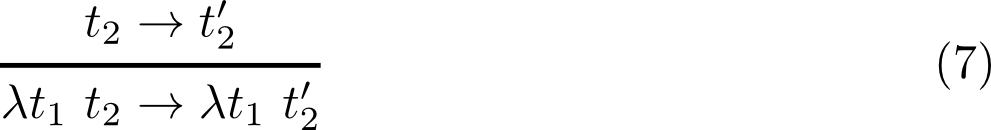
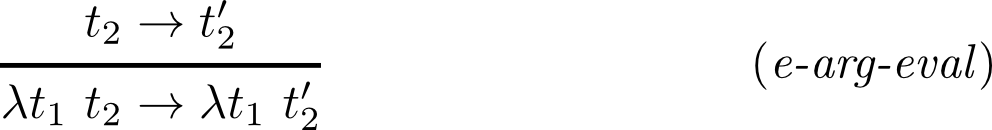
diagrams updated in first cs opsem post

diff --git a/_diagrams/coffee-script-fix.tex b/_diagrams/coffee-script-fix.tex
@@ -31,6 +31,7 @@
 \end{grammar}
 
 \section{Boolean Evaluation Rules}
+
 \begin{equation}
 \lit*{if} \ \lit*{true} \ \lit*{then} \ t_{2} \ \lit*{else} \ t_{3} \to t_{2} \ruletag{e-true}
 \end{equation}
@@ -135,28 +136,27 @@
 
 \section{CS Ambigious Derivations}
 
-\begin{equation}
+\begin{equation*}
 \trfrac[\;\small{(\text{??})}]{
   \trfrac[\rulelabel{e-inv}]{}{\lambda \lit*{true} \lit*{()} \right \rightarrow \lit*{true}}
 }{
   \lambda \lit*{true} \lit*{()} \ \lambda \lit*{false} \rightarrow (??)
 }
-\end{equation}
+\end{equation*}
 
-\begin{equation}
+\begin{equation*}
 \trfrac[\rulelabel{e-app}]{
   \trfrac[\rulelabel{e-inv}]{}{\lambda \lambda \lit*{true} \lit*{()} \right \rightarrow \lambda \lit*{true}}
 }{
   \lambda \lambda \lit*{true} \lit*{()} \ \lambda \lit*{false} \rightarrow \lit*{true}
 }
-\end{equation}
+\end{equation*}
 
-\begin{equation}
+\begin{equation*}
 \trfrac[\rulelabel{e-app}]{}{
   \lambda \lambda \lit*{true} \ \lambda \lit*{false} \rightarrow \lambda \lit*{true}
 }
-\end{equation}
-
+\end{equation*}
 
 \newpage
 

diff --git a/_posts/2012-10-09-math-envy-and-coffeescripts-foibles.md b/_posts/2012-10-09-math-envy-and-coffeescripts-foibles.md
@@ -15,9 +15,9 @@ meta:
 
 At Strange Loop 2011 while participating in a [language panel (5:06)](http://www.infoq.com/presentations/Language-Panel) Jeremy Ashkenas was asked, "What is the worst idea that was ever introduced into programming languages that continues to afflict us today?" He responded, "... mathematics envy". I can't completely disagree with Mr. Ashkenas. Math appears to get in the way on occasion [!!]. Even so it struck me as an odd response given that much of computing is built on the work of great mathematicians [!!]. For an example look no further than the [inner workings](kwingolog.org/archives/2011/08/02/a-closer-look-at-crankshaft-v8s-optimizing-compiler) of V8's optimizing compiler that runs a lot of Jeremy's code.
 
-Fast forward a year and issues with CoffeeScript's flexible syntax start popping up in [blog](http://surana.wordpress.com/2011/02/08/coffeescript-oddities/) [posts](http://ceronman.com/2012/09/17/coffeescript-less-typing-bad-readability/). Interactions between whitespace, operators, comprehensions, and lambda declarations all appear to be a source of semantic ambiguity. To be fair it seems that they are rarely the cause of serious problems, but it left me wondering if they could have been avoided during the creation of the language. Could the timely application of mathematics have prevented these problems early in CoffeeScript's genesis?
+Fast forward a year and issues with CoffeeScript's flexible syntax start popping up in [blog](http://surana.wordpress.com/2011/02/08/coffeescript-oddities/) [posts](http://ceronman.com/2012/09/17/coffeescript-less-typing-bad-readability/). Interactions between whitespace, operators, comprehensions, and lambda declarations appear to be a source of runtime confusion. To be fair it seems that they are rarely the cause of serious problems, but it left me wondering if they could have been avoided during the creation of the language. That is, could the timely application of mathematics have prevented these problems early in CoffeeScript's genesis?
 
-What follows is the first of two posts aimed at answering that question. This post provides an introduction to operational semantics, a description of one semantic issue in CoffeeScript, and a definition of the operational semantics for a CoffeeScript subset capable of reproducing said issue. The second post will introduce type derivations, define them for the same CoffeeScript subset, and attempt to formalize semantic ambiguity generally. Most of the background needed to understand the math is covered, but the post generally follows my thought process.
+What follows is the first of two posts aimed at answering that question. This post provides an introduction to operational semantics, a description of one semantic issue in CoffeeScript, and a definition of the operational semantics for a CoffeeScript subset capable of reproducing said issue. The second post will introduce type derivations, define them for the same CoffeeScript subset, and attempt to formalize semantic ambiguity more generally. The background needed to understand the math is covered, but the post generally follows my thought process.
 
 ## CoffeeScript Confusion
 
@@ -73,19 +73,19 @@ if true then false else true
 if false then false else (if true then false else true)
 ```
 
-`v`'s distinction means that any term like the second and third in the example has to eventually evaluate to either `true` or `false`. Any other result means that something has "gone wrong". It also means that `true` or `false` themselves cannot evaluate further. "Going wrong" will be covered later.
+`v`'s distinction means that any term like the second and third in the example has to eventually evaluate to either `true` or `false`. Any other result means that something is "stuck". It also means that `true` or `false` themselves cannot evaluate further. What it means for a term to get "stuck" will be covered later.
 
 Also, notice that that the only other construct in the grammar `if t then t else t` has sub terms represented with the meta variable `t`. This captures the ability to use `true`, `false`, or another `if t then t else t` in place of each sub term `t` as in examples two and three.
 
-With the building blocks of the example language in place the next step is to establish a set of rules that will define the way terms are evaluated. That is, what steps should be used to reduce any term to `true` or `false`, and in what order. In spite of the fact that this language is extremely simple there are some subtle details about how terms can evaluate that need to be captured.
+With the building blocks of the example language in place the next step is to establish a set of rules that will define the way terms are evaluated. That is, what steps should be used to reduce any term to `true` or `false`, and in what order. Superficially this language seems extremely simple, but there are some subtle details about how term evaluation that need to be captured.
 
 <div class="center">
   <img src="/assets/images/diagrams/bool-inference-rules.png"></img>
 </div>
 
-These equations are collectively referred to as the _evaluation relation_ and individually as _inference rules_. Each of them plays an important role in the _evaluation strategy_ [!!] of the example language that instructs the reader on how to evaluate any term in the language. All of them are tagged with a name preceded by an "_e-_" for evaluation. The tags will be helpful later when differentiating between inference rules and type rules for CoffeeScript.
+These equations are collectively referred to as the _evaluation relation_ and individually as _inference rules_. Each of them plays an important role in the _evaluation strategy_ [!!] of the example language which instructs the reader in how to evaluate any term in the language. All of them are tagged with a name preceded by an "_e-_" for evaluation. The tags will be helpful later when referring to the rules and also for keeping them conceptually distinct from the type rules.
 
-Equations 1 and 2 (_e-true_, _e-false_) are fairly simple. They represent the expected evaluation results for the different guard values in an `if t then t else t` term. With `true` you get the first subterm and with `false` you get the second subterm. Also, notice that there are no rules for either `true` or `false` by themselves. This further reinforces that `true` and `false` are values and that there's no way to evaluate them furter. Equation 3, _e-if_ is more interesting in its construction and how it captures an important subtlety of the evaluation strategy.
+_e-true_ and _e-false_ are fairly simple. They represent the expected evaluation results for the different guard values in an `if t then t else t` term. With `true` you get the first subterm and with `false` you get the second subterm. Also, notice that there are no rules for either `true` or `false` by themselves. This further reinforces that `true` and `false` are values and that there's no way to evaluate them further. Equation 3, _e-if_ is more interesting in its construction and how it captures an important subtlety of the evaluation strategy.
 
 <div class="center">
   <img src="/assets/images/diagrams/bool-inference-rules-guard.png"></img>
@@ -148,19 +148,12 @@ Some translated examples should help to clarify:
 
 
 <div class="center">
-  <img src="/assets/images/diagrams/cs-grammar-lambda-invocation.png"></img>
+  <img src="/assets/images/diagrams/cs-grammar-examples.png"></img>
 </div>
 
-<div class="center">
-  <img src="/assets/images/diagrams/cs-grammar-lambda-application.png"></img>
-</div>
-<div class="center">
-  <img src="/assets/images/diagrams/cs-grammar-lambda-complex.png"></img>
-</div>
+The most important part to note is that lambda terms capture the subterm be it `true`, `false` or another lambda.
 
-The most important part to note that may not have been clear from the grammar is that lambda terms capture the subterm be it `true`, `false` or another lambda (See the last three equations above).
-
-It's reasonable to ask whether there's value in providing a grammar that, in translation, looks a lot like it's own language. First, it maps the two different lambda forms to one form in the grammar, which makes reasoning about evaluation and types easier. Second, differentiating values (`true`, `false`, and `-> t`) from other terms by calling them values is important for knowing when evaluation has finished.
+Looking at the examples it's reasonable to ask whether there's value in providing a grammar that looks a lot like it's own language. First, it maps the two different lambda forms to one form in the grammar, which makes reasoning about evaluation and types easier. Second, differentiating values (`true`, `false`, and `-> t`) from other terms by calling them values is important for knowing when evaluation has finished.
 
 ## Inference Rules
 
@@ -172,15 +165,17 @@ With the grammar in place the next step is to define both the inference rules an
 
 The only impact of the evaluation strategy (call-by-value l-to-r) is that arguments to lambda terms must be fully evaluated before application can take place. For example `(-> true) (-> false)()` would first evaluate to `(-> true) false` as a result of the `()` operator.
 
-insert equation 8
+<div class="center">
+  <img src="/assets/images/diagrams/cs-inference-rules-application.png"></img>
+</div>
 
-Equation 8, _e-app_ requires that any argument a lambda term is applied to should be fully evaluated. In other words it should be a term in the meta variable set `v`. Once applied the result is the lambda's unaltered subterm.
+The `v` in _e-app_ means that any argument a lambda term is applied to should be fully evaluated. In other words it should be a term in the meta variable set `v`. Once applied the result is the lambda's unaltered subterm.
 
 <div class="center">
   <img src="/assets/images/diagrams/cs-inference-rules-application-argument.png"></img>
 </div>
 
-Equation 9, _e-arg-eval_ stipulates in the premise that if the term a lambda will be applied to can take a step of evaluation it should. _e-app_ informs the reader when lambda application can take place and _e-arg-eval_ informs the reader how to get there. Taken together these three rules define how terms in the CoffeeScript subset get evaluated [!!].
+_e-arg-eval_ stipulates in the premise (above the bar) that if the term a lambda will be applied to can take a step of evaluation it should. _e-app_ informs the reader when lambda application can take place and _e-arg-eval_ informs the reader how to get there. Taken together these three rules define how terms in the CoffeeScript subset get evaluated [!!].
 
 ## Derivation Trees
 
@@ -198,7 +193,7 @@ Again, depending on the way the inference rules are defined this example could e
   <img src="/assets/images/diagrams/bool-derivation-tree-example.png"></img>
 </div>
 
-Unfortunately the way this "tree" is constructed isn't obvious. First, taking the second subterm and replacing it with a variable prevents the equations from getting too long. This can be done here because we already know that it's not important to how the term is evaluated (see the introductory section on operational semantics) and it's easier to read when the equations aren't squished.
+Unfortunately the way this "tree" is constructed isn't obvious. First, taking the second subterm and replacing it with a variable prevents the equations from getting too long. We already know that the second sub term isn't important in the final evaluation (see the introductory section on operational semantics) and it's easier to read the equations when they aren't squished
 
 <div class="center">
   <img src="/assets/images/diagrams/bool-derivation-tree-example-simplify.png"></img>
@@ -210,7 +205,7 @@ From among the inference rules _e-true_, _e-false_, and _e-if_ one will apply to
   <img src="/assets/images/diagrams/bool-derivation-tree-first-rule.png"></img>
 </div>
 
-It's easy to see that this looks just like the "raw" form of the _e-true_ rule. The only difference is the replacement of the last two subterms with `false` on the left side of the arrow and the resulting subterm with `false` on the right side of the arrow. It might look a little confusing with the bar resting on top of the _e-true_ rule, but it signifies that the applied rule has no premise/precondition. Next, since  _e-if_ forced the application of _e-true_, it makes sense that it figures in to the derivation tree. Importantly _e-if_ has a precondition, one which the application of _e-true_ satisfies.
+It's easy to see that this looks just like the "raw" form of the _e-true_ rule. The only difference is the replacement of the last two subterms with `false` on the left side of the arrow and the resulting subterm with `false` on the right side of the arrow. It might look a little confusing with the bar resting on top of the _e-true_ rule, but that signifies the applied rule has no premise/precondition. Next, since  _e-if_ forced the application of _e-true_, it makes sense that it figures in to the derivation tree. Importantly _e-if_ has a precondition, one which the application of _e-true_ satisfies.
 
 <div class="center">
   <img src="/assets/images/diagrams/bool-inference-rules-guard.png"></img>
@@ -228,23 +223,25 @@ Here, it's been replaced by `if true then false else false -> false` from the ap
   <img src="/assets/images/diagrams/bool-derivation-tree-example.png"></img>
 </div>
 
-The final evaluation result is `false`. At this point it may seem odd to call it a derivation "tree", but more complex languages may have multiple subterms in the premise that require evaluation resulting in a tree like structure. Finally we have enough in place to apply the operational semantics defined for the CoffeeScript subset to our problem.
+The final evaluation result is `false`. At this point it may seem odd to call it a derivation "tree", but a more complex grammar could have multiple terms in the premise that require evaluation resulting in a tree like structure.
 
 ## Evaluating a Solution
 
-Now to apply the inference rules to an example of the issue at hand.
+Finally we know enough to apply the operational semantics to our problem. First the least complex term that prevents evaluation.
 
 ```coffeescript
 (-> true)() -> false
 ```
 
-Translating this example into the grammar representation yields a form that we can apply the inference rules to.
+Translating this example into the grammar representation yields a form that will work with the inference rules.
 
-! include grammarfied version
+<div class="center">
+  <img src="/assets/images/diagrams/cs-derivation-trees-stuck.png"></img>
+</div>
 
-_e-inv_ is applied because `-> false` can't evaluate any further (it's a value in `v`), but then what? The only rule that has an evaluation result in it's premise is _e-arg-eval_, and that one only allows for the second term to be valuated not the consumption of an argument. Neither _e-inv_ or _e-app_ are only good for terms with lambdas as the first subterm. We're stuck [!!].
+_e-inv_ is applied because `-> false` can't evaluate any further (it's a value in `v`), but then what? The only rule that has evaluation in it's premise is _e-arg-eval_ and that only allows for the second term `-> false` to be evaluated. It does **not** allow for the consumption of an argument. _e-inv_ and _e-app_ are only good for terms with lambdas as the first subterm which is `true` after the initial application of _e-inv_. It's "stuck" [!!].
 
-Here someone will say, "We already knew that because there's a type error when you evaluate the JavaScript!" and that''s true. Consider the slightly more complex example.
+Here someone will say, "We already knew that because there's a type error when you evaluate the JavaScript!". Consider a slightly more complex example.
 
 ```coffeescript
 (-> (-> true))() -> false
@@ -252,27 +249,41 @@ Here someone will say, "We already knew that because there's a type error when y
 
 And the derivation tree to match.
 
-! include working derivation tree
+<div class="center">
+  <img src="/assets/images/diagrams/cs-derivation-trees-not-stuck.png"></img>
+</div>
 
-The value returned by the first lambda can be applied to an argument so the second inference rule is _e-app_ and the result of evaluation is `true`. Viewing the accompanying term with an additional space will provide contrast.
+The value returned by the first lambda can be applied to an argument with _e-app_ so the result of evaluation is `true`. Viewing the accompanying term with an additional space will provide contrast.
 
 ```coffeescript
 (-> (-> true)) () -> false
 ```
 
-With a much simpler derivation tree.
+<div class="center">
+  <img src="/assets/images/diagrams/cs-derivation-trees-not-stuck-with-space.png"></img>
+</div>
 
-! include working app tree
+Clearly the two terms are syntactically similar but each has a very different meaning. This semantic differentiation makes it possible to start thinking about a concrete notion of semantic ambiguity in a programming language. Informally, if two terms are _very similar_ syntactically but have different derivation trees they are semantically ambigous.
 
-This shows clearly that while the two terms are syntactically very similar each has a very different meaning. From this its possible to begin a thinking about what semantic ambiguity looks like in a programming language. Informally, if two terms are _very similar_ syntactically but have different derivation trees they are semantically ambigous.
+There are two problems with this definition if the goal is to come up with something useful for actual language implementors. First, "very similar" is nebulous. Luckily computer science is litered with string "distance" algorithms. Second, automatically generating derivation trees for terms is likely to be difficult.
 
-There are two problems with this definition if the goal is to come up with something useful for actual language implementors. First, "very similar" is nebulous. Luckily computer science is litered with string "distance" algorithms. Second, building a tool to generate derivation trees for terms is difficult. It might be possible to just compare evaluation _results_ but there are two issues with that approach. It requires an interpreter and it's possible there are languages that have the same results from similar terms but still have different derivation trees. In that case side effects might result in ambiguity.
+It might be possible to just compare evaluation results instead of the derivation trees but there are problems with that approach. In the example boolean language it's extremely easy to define two terms that evaluate to an identical result but have different derivation trees.
+
+```haskell
+-- example one
+if (if true then true else true) then false else (if true then false else true)
+
+-- example two
+if (if true then false else true) then false else (if true then false else true)
+```
+
+The fact that the evaluation path is very different gets lost in a forest of `true`'s and `false`'s. More concretely the string distance between the two terms is at most 5 characters out of 78, but the first example has a derivation tree with two rules (_e-true_, _e-if_) against the second examples stack of three (_e-true_, _e-if_, _e-true_). Again, this is in spite of the fact that the evaluation _result_ is `false` in both cases. You simply can't tell without a lot of effort how different the evaluation is and in a language with side effects the difference could be critical.
 
 ## Next Time
 
-In the next post I'll take a look at how type information could replace the derivation trees as the semantic differentiator. Type information is often readily available even in languages that don't have type annotations like our CoffeeScript subset. Hopefully, if the differentiation of terms is easy enough a tool can be built to automate the process of ferreting out confusing term pairings.
+In the next post I'll take a look at how type information could replace the derivation trees as the semantic differentiator. Type information is often readily available even in languages like CoffeeScript that don't have type annotations. If finding a difference between two terms is simple enough maybe a tool can be built to automate the process of ferreting out confusing term pairings.
 
-## footnotes
+### footnotes
 
 !! See the confusion over Monads/Functors due in part to their relationship with mathematics
 
@@ -280,7 +291,7 @@ In the next post I'll take a look at how type information could replace the deri
 
 !! denotational semantics, axiomatic semantics
 
-!!  Out of respect to Benjamin Pierce this example language is borrowed almost verbatim but I've added in my own explanation of it in what I think is "plain" language. It cannot be over emphasized how much this book has contributed to my education over the last 2 years.
+!!  Out of respect to Benjamin Pierce this example language is borrowed almost verbatim but I've added in my own explanation of it. I cannot over emphasized how much this book has contributed to my education over the last 2 years. If you feel I haven't properly attributed the relevant portions of this post please email me at john.m.bender@gmail.com.
 
 !! This Theorem is referred to as Determinacy of Evaluation. I may go back and do some simple proofs for my own education after this post and a possible follow up.
 

diff --git a/_posts/2012-11-23-math-envy-and-coffescripts-foibles-2.md b/_posts/2012-11-23-math-envy-and-coffescripts-foibles-2.md
@@ -109,7 +109,7 @@ insert image
 *For two terms with inconsistent types, we say they are more or less ambigous based on the calculation Levenshtein Distance/max(Length<sub>1</sub>, Length<sub>2</sub>)*.
 
 
-# footnotes
+### footnotes
 
 !! See the confusion over Monads/Functors due in part to their relationship with mathematics
 
